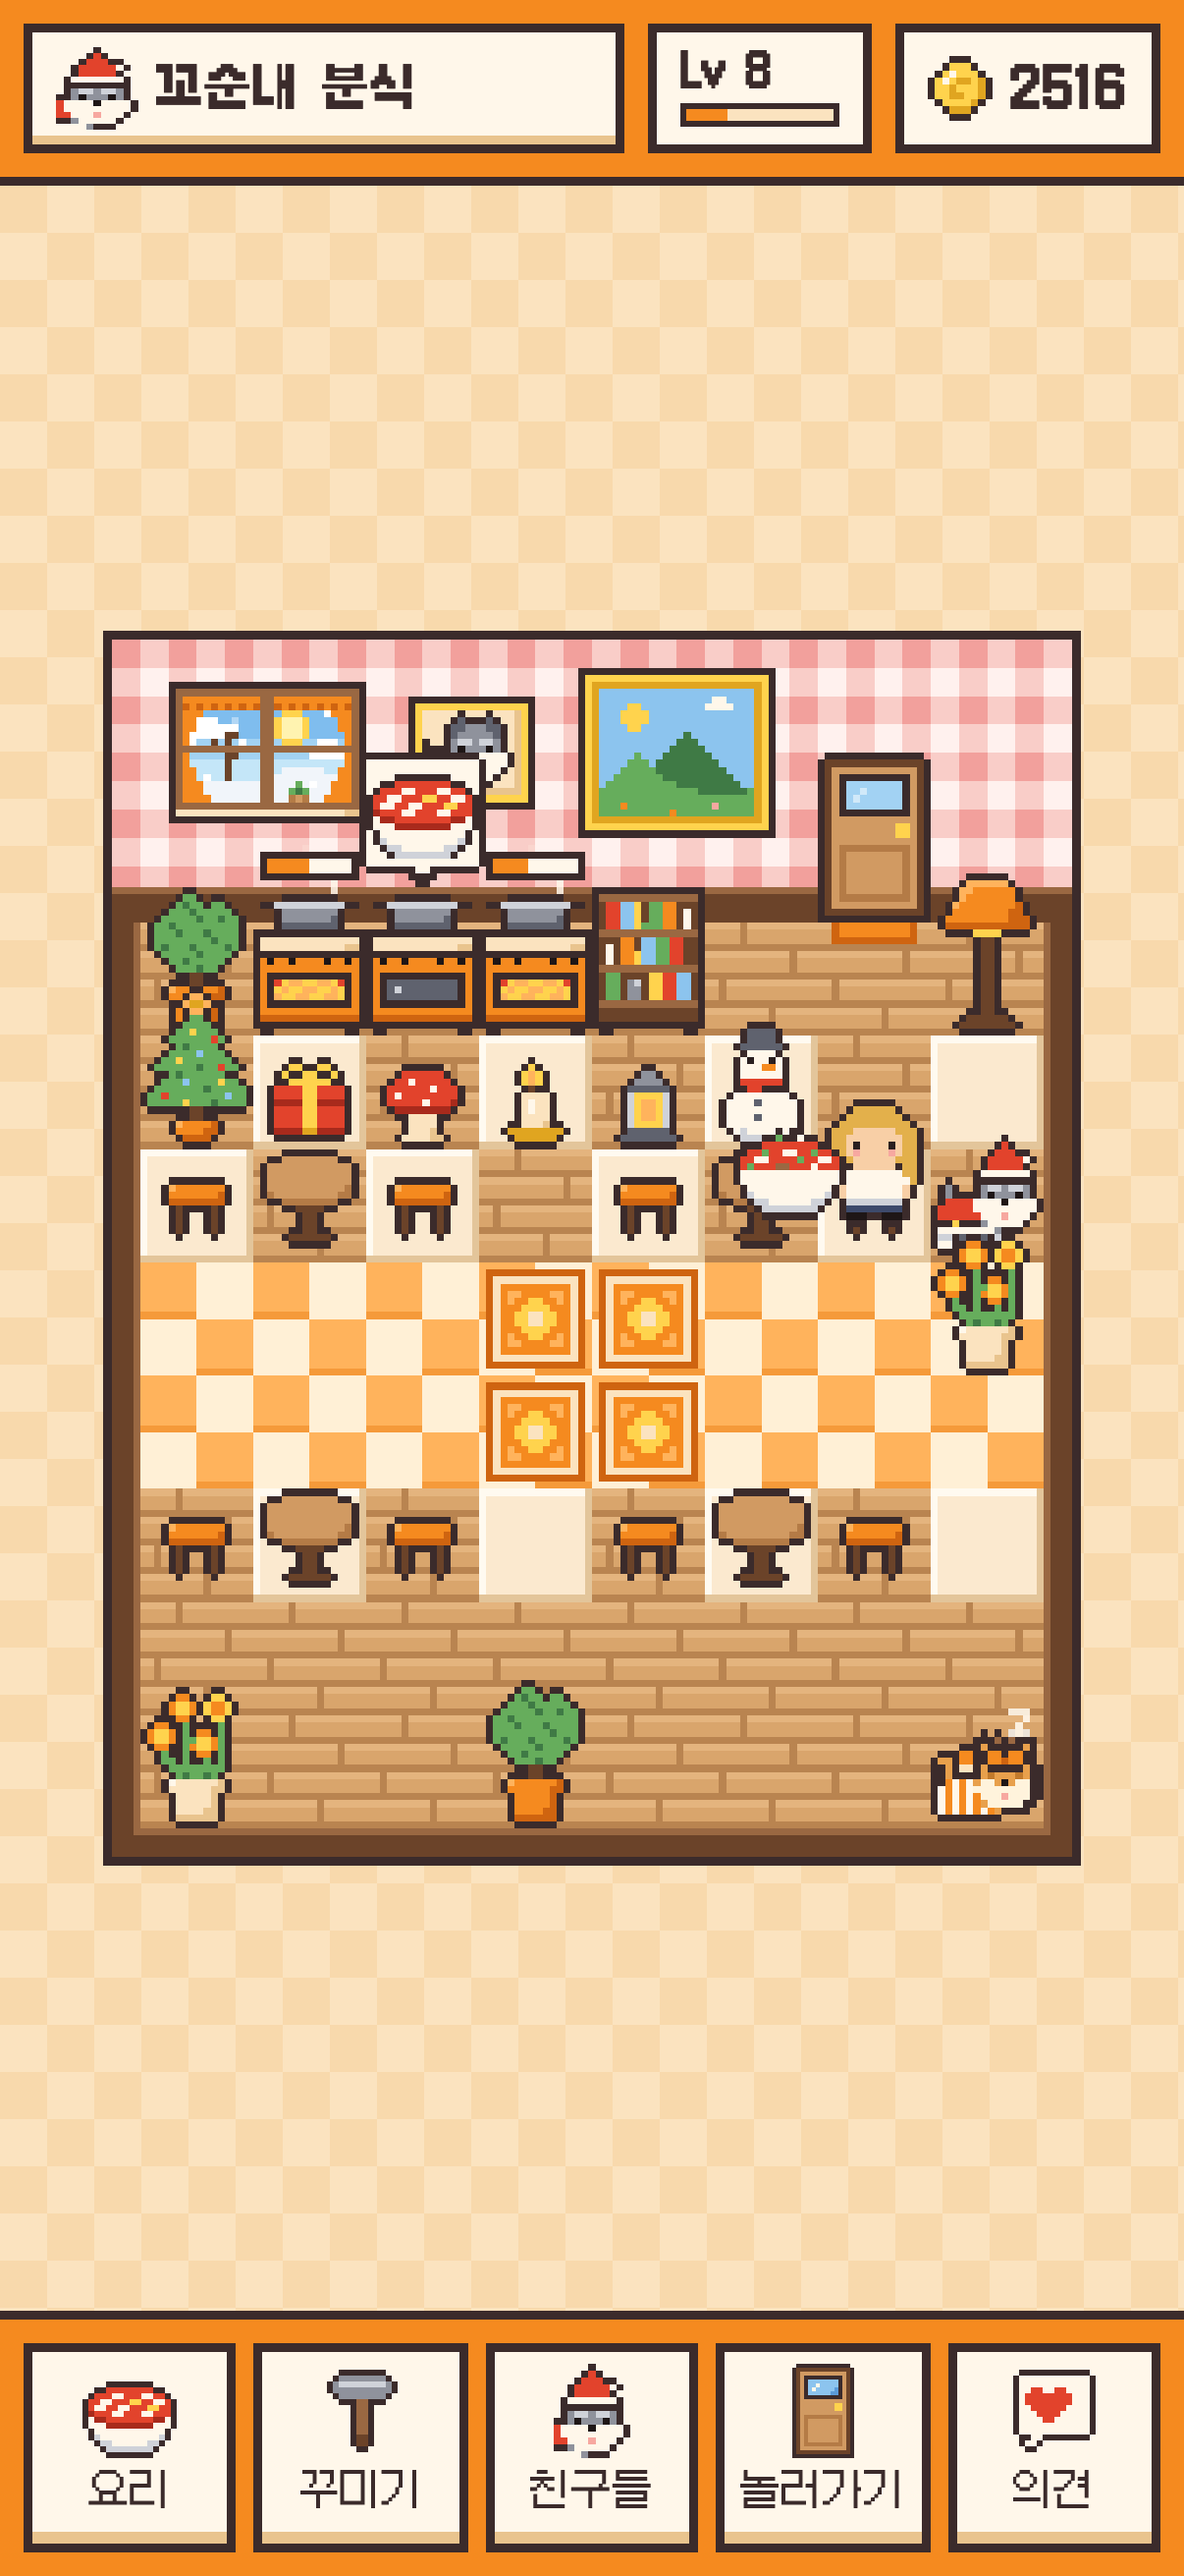
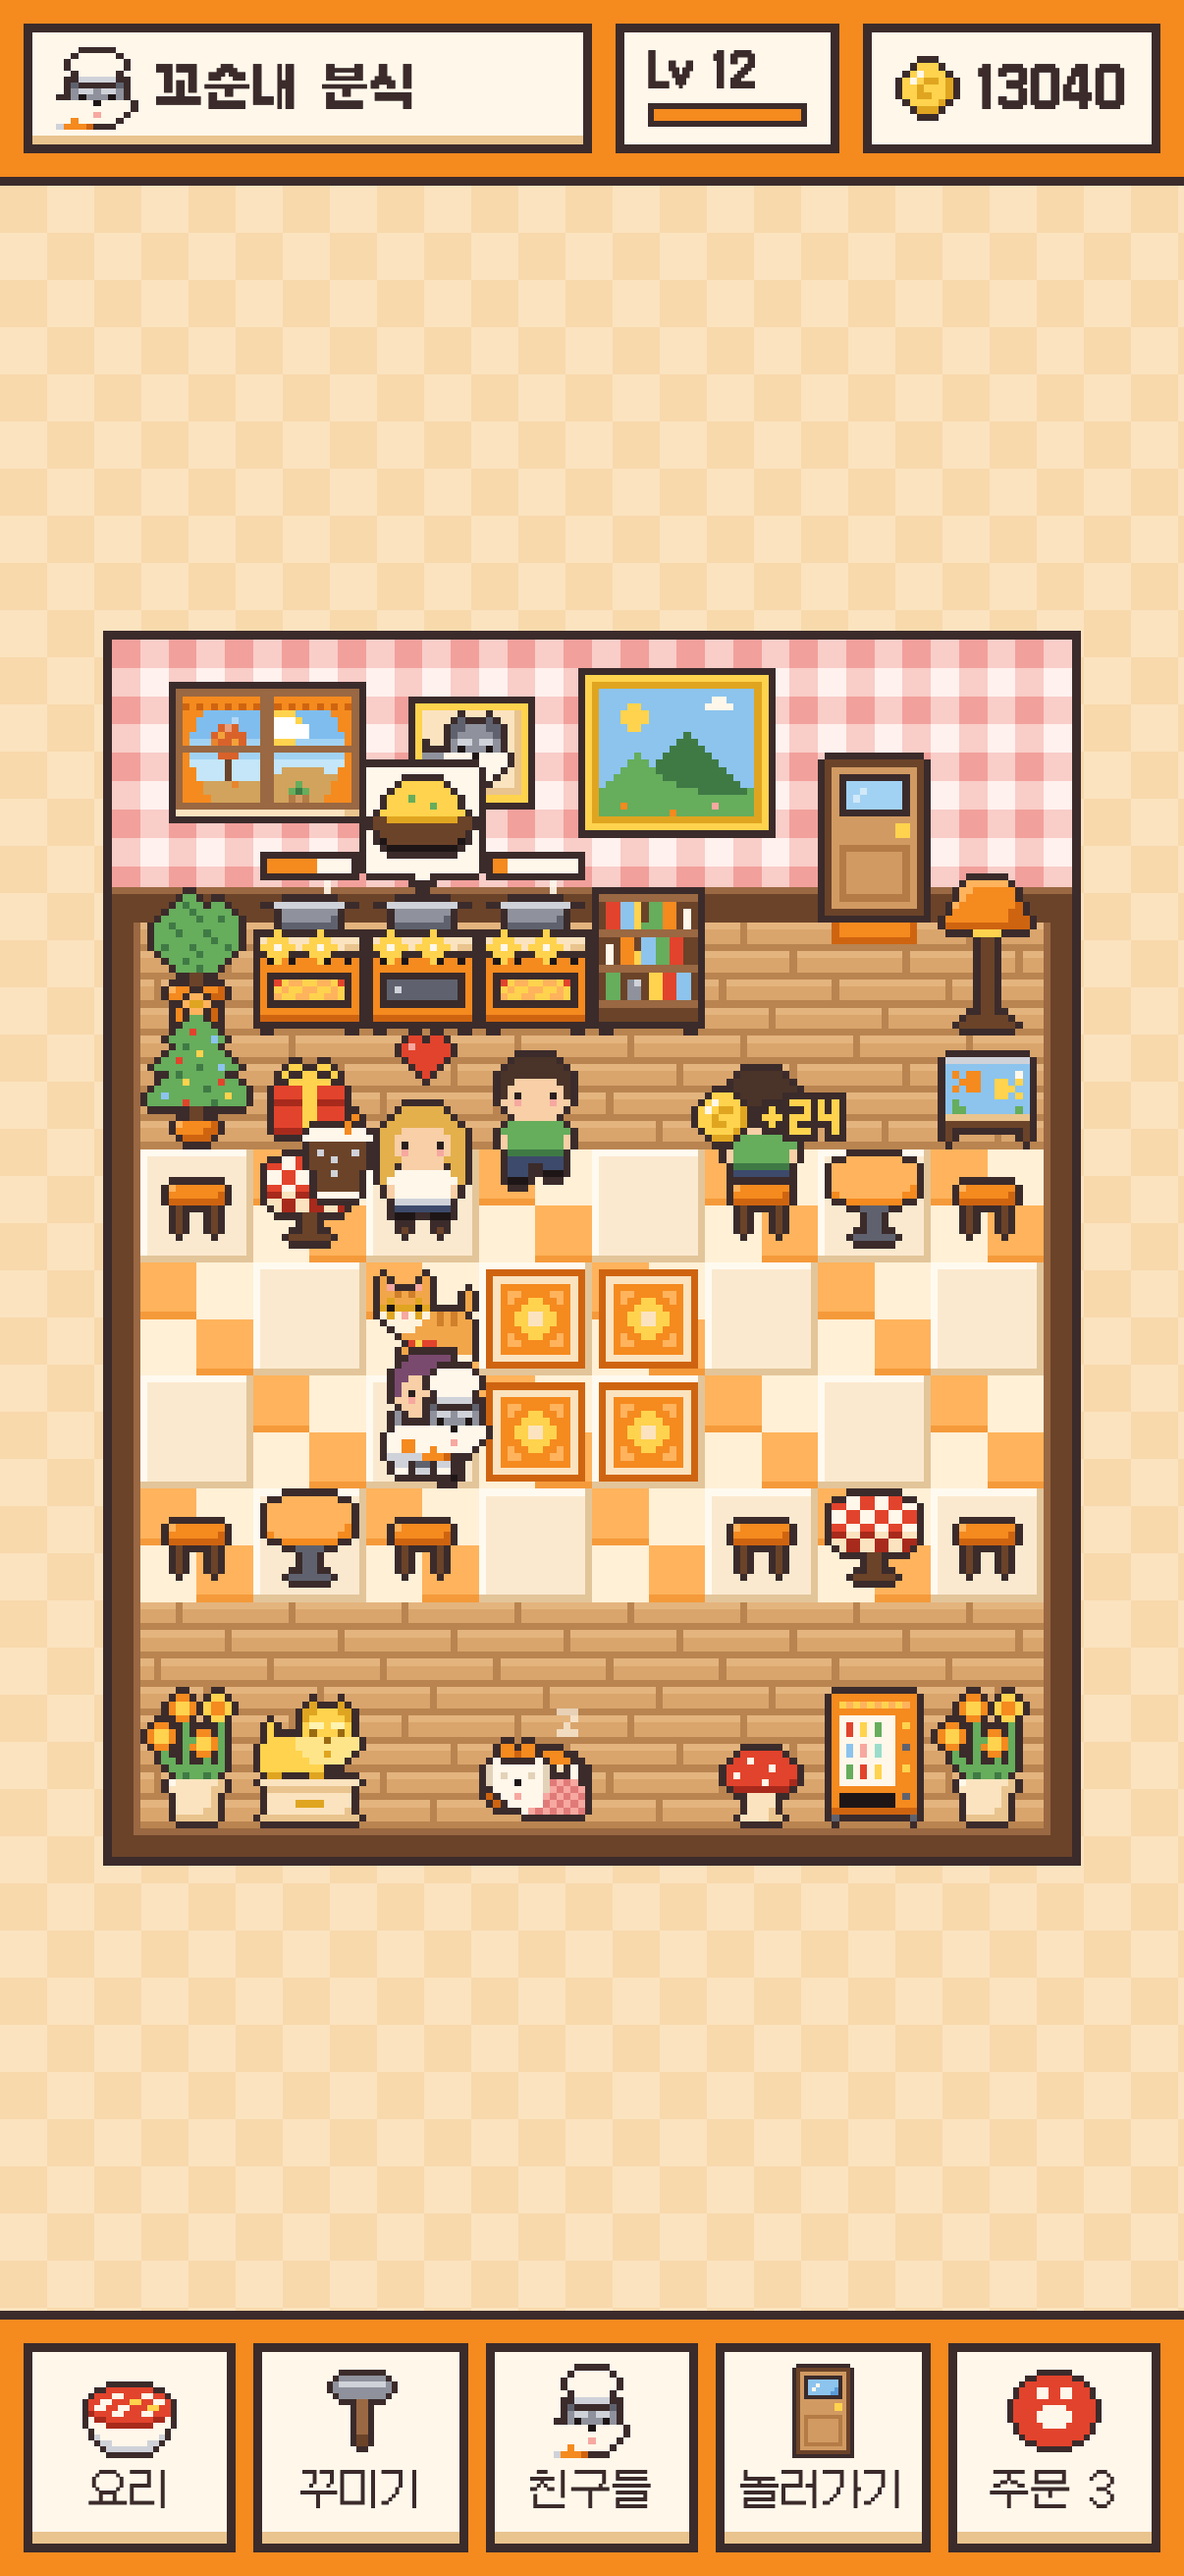
Store screenshots for 1.4.0: alley, cafe, clothes shop, daily orders
- Nine shots each for App Store 6.3-inch and Google Play, replacing the earlier sets.

diff --git a/store/listing.md b/store/listing.md
@@ -54,7 +54,7 @@
 좋아하는 사진을 골라 벽 액자에 걸어 보세요. 사진은 작은 픽셀 그림으로 바뀌고 기기 안에만 저장돼요.
 
 ■ 나만의 메뉴
-좋아하는 음식의 이름을 짓고, 아이콘을 직접 그려서 메뉴판에 올리세요. 손님이 정말로 주문합니다.
+좋아하는 음식의 이름을 짓고, 아이콘을 직접 그려서 메뉴판에 올리세요. 손님이 정말로 주문합니다. 옷가게에서는 옷을 직접 그려서 팔아요.
 
 ■ 놀러 가기
 초대장 링크를 주고받으면 친구의 가게를 구경할 수 있어요. "최신 모습 공유"를 켜 두면 친구가 올 때마다 지금 가게 모습을 봅니다. 구경하고 오면 방문 선물도 받아요. 불쾌한 가게는 신고하거나 차단할 수 있어요.
@@ -113,8 +113,8 @@
 
 | 파일 | 용도 |
 |---|---|
-| `store/shots/play-*.png` | Google Play 휴대전화 화면 (1080×1920) |
-| `store/shots/ios63-*.png` | App Store iPhone 화면 (1206×2622). 지금 App Store Connect가 받는 크기 |
+| `store/shots/play-*.png` | Google Play 휴대전화 화면 (1080×1920). 1.4.0 그림 아홉 장: 분식, 골목, 카페, 옷가게, 요리, 친구, 꾸미기, 오늘의 주문, 밤 |
+| `store/shots/ios63-*.png` | App Store iPhone 화면 (1206×2622). 지금 App Store Connect가 받는 크기. 1.4.0 그림 아홉 장(위와 같은 차례). 스토어에 올라가 있는 1.1.0·1.2.0의 그림은 그 전 여섯 장이다 |
 | `store/shots/ios69-*.png` | App Store 6.9형 화면 (1290×2796). 1.0.0 때 그림 |
 | `store/shots/ios65-*.png` | App Store 6.5형 화면 (1284×2778). 1.0.0 때 그림 |
 | `store/feature.jpg` | Google Play 대표 이미지 (1024×500) |
